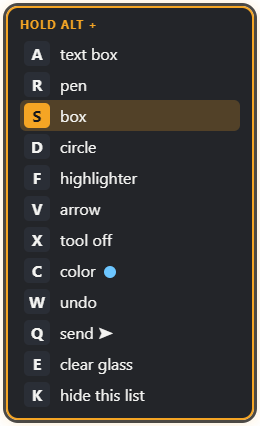
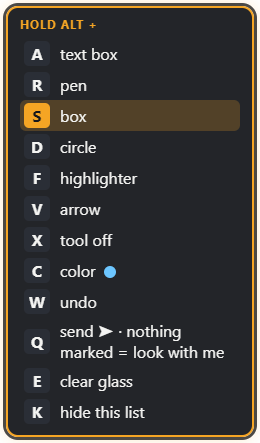
The glass v2 look: blue glass cards for the person, amber for the AI, smaller, no white; cards land close to what they're about with short lines that cross nothing; a closed window's thread leaves the glass; Alt+Q on the key list says it also means look with me; README shows the v1 and v2 pictures, 

diff --git a/glass/glass.html b/glass/glass.html
@@ -136,6 +136,62 @@
   body.mode-note, body.mode-note * { cursor: text !important; }
   body.mode-ask, body.mode-ask * { cursor: help !important; }
   body[class*="mode-"] .card, body[class*="mode-"] .card * { cursor: grab !important; }
+  /* Lens (Nov 10, his pick in the Den, #15): one material for every note. A dark glass pane with a light edge and a deep
+     shadow, so it floats off any page; faces say who's talking; my version is the one bright thing; one soft white line. */
+  .card { max-width: 340px; padding: 12px 16px 14px; font-size: 17px; line-height: 1.42; border-radius: 18px;
+          background: linear-gradient(180deg, rgba(48,56,70,.93), rgba(26,31,40,.93)); border: 1px solid rgba(255,255,255,.16);
+          box-shadow: inset 0 1px 0 rgba(255,255,255,.16), 0 0 0 1px rgba(0,0,0,.6), 0 18px 44px rgba(0,0,0,.62); }
+  /* Whose card is whose, at a glance (his catch, Nov 10: "i cannot tell the difference between my block and yours"):
+     his are cool blue glass with a blue edge, mine warm amber glass with an amber edge. */
+  .card.hunter { background: linear-gradient(180deg, rgba(34,58,86,.95), rgba(19,33,52,.95)); border-color: rgba(108,198,255,.55);
+                 box-shadow: inset 0 1px 0 rgba(160,215,255,.18), 0 0 0 1px rgba(0,0,0,.6), 0 18px 44px rgba(0,0,0,.62); }
+  .card.odie { background: linear-gradient(180deg, rgba(66,50,26,.95), rgba(37,28,15,.95)); border-color: rgba(245,165,36,.55);
+               box-shadow: inset 0 1px 0 rgba(255,210,140,.16), 0 0 0 1px rgba(0,0,0,.6), 0 18px 44px rgba(0,0,0,.62); }
+  .card.hunter .who { color: #a9dcff !important; } .card.odie .who { color: #ffcf7a !important; }  .card .who { display: flex; align-items: center; gap: 8px; margin: 0 0 6px; padding: 0; background: none !important; color: rgba(255,255,255,.7) !important;
+               font: 600 13px/22px "Segoe UI", system-ui, sans-serif; letter-spacing: 0; text-transform: none; border-radius: 0; }
+  .card .who::before { content: ""; width: 22px; height: 22px; border-radius: 50%; flex: none; background: url(odie.png) center/cover; box-shadow: 0 0 0 2px rgba(0,0,0,.5); }
+  .card.hunter .who::before { content: "H"; background: var(--his); color: #04121e; font: 700 12px/22px "Segoe UI"; text-align: center; }
+  .card .txt { color: #fff; }
+  .tn, .tn.chip { display: none !important; }
+  .card .x, .card .fold { border: 1px solid rgba(255,255,255,.25); background: rgba(30,36,46,.95); box-shadow: 0 0 0 1px rgba(0,0,0,.6), 0 4px 10px rgba(0,0,0,.5); line-height: 22px; }
+  .card.hunter .x, .card.hunter .fold { border-color: rgba(255,255,255,.25); }
+  /* One soft white line, a dot where it lands. */
+  .tie, .tie.hunter, .tie.odie { stroke: #fff; stroke-width: 2.5; opacity: .95; filter: drop-shadow(0 0 4px rgba(255,255,255,.5)) drop-shadow(0 0 1px rgba(0,0,0,1)); }
+  .dot.hunter, .dot.odie { fill: #fff; }
+  .grp.lit .tie { stroke-width: 3.5; }
+  .card .acts { display: flex; gap: 8px; margin-top: 8px; }
+  .card .acts button { height: 30px; padding: 0 14px; border-radius: 10px; border: 0; background: rgba(255,255,255,.12); color: #fff; font: 600 13px "Segoe UI"; cursor: pointer; }
+  .card .acts button:hover { background: rgba(255,255,255,.2); }
+  /* My version: a darker well with a soft amber edge (no white: bright hurts his eyes). */
+  .card.proposal { border-left-width: 1px; padding-bottom: 12px; }
+  .proposal .txt { display: block; margin-top: 2px; padding: 11px 13px; border-radius: 12px; background: rgba(0,0,0,.28); box-shadow: inset 0 0 0 1px rgba(245,165,36,.35); color: #fff; }
+  .proposal .txt ins { color: #ffc65c; background: rgba(245,165,36,.18); }
+  .proposal .txt del { color: #7d838c; }
+  .proposal .acts { gap: 8px; }
+  .proposal button { flex: 1; height: 36px; border-radius: 12px; border: 0; background: rgba(255,255,255,.14); font: 600 15px "Segoe UI"; }
+  .proposal button.keep { background: var(--odie); color: #1f1300; }
+  .proposal .hint { display: none; }
+  .proposal.keptcard { border-color: #3fb950 !important; box-shadow: inset 0 1px 0 rgba(255,255,255,.16), 0 0 0 2px #3fb950, 0 18px 44px rgba(0,0,0,.62) !important; }
+  .proposal.keptcard .who { color: #7ee2a0 !important; }
+  /* A finished thread folds to a glass chip. */
+  .card.tucked { border-radius: 16px; padding: 8px 14px 8px 8px; opacity: 1; }
+  .card.tucked .who { margin: 0; }
+  .card.tucked .more { font-size: 14px; color: #fff; max-width: 300px; margin: 2px 0 2px 30px; }
+  /* Status on his mark: a small glass pill. */
+  .badge { background: rgba(30,36,46,.94); border: 1px solid rgba(255,255,255,.22); box-shadow: 0 0 0 1px rgba(0,0,0,.55), 0 6px 14px rgba(0,0,0,.5); padding: 3px 11px 3px 4px; font-size: 13px; }
+  .badge.done { border-color: rgba(95,211,141,.7); } .badge.you { border-color: rgba(108,198,255,.7); }
+  /* Compact (his catch, Nov 10: "why does it look like we have so much less space on the screen still?"): v1's size again.
+     Smaller text and padding, the face inline and small, and Reply only while the pointer is on the card. */
+  .card { max-width: 300px; padding: 8px 12px 9px; font-size: 15px; line-height: 1.38; border-radius: 14px; }
+  .card .who { font-size: 12px; line-height: 18px; gap: 6px; margin: 0 0 3px; }
+  .card .who::before { width: 18px; height: 18px; }
+  .card.hunter .who::before { font-size: 10px; line-height: 18px; }
+  .card:not(.proposal) .acts { position: absolute; right: 8px; bottom: -14px; margin: 0; opacity: 0; transition: opacity .12s; pointer-events: none; }
+  .card:not(.proposal):hover .acts { opacity: 1; pointer-events: auto; }
+  .card:not(.proposal) .acts button { height: 26px; padding: 0 11px; font-size: 12px; background: rgba(30,36,46,.97); box-shadow: 0 0 0 1px rgba(255,255,255,.22), 0 4px 10px rgba(0,0,0,.5); }
+  .card.proposal { max-width: 380px; }
+  .proposal .txt { padding: 9px 11px; }
+  .proposal button { height: 32px; font-size: 14px; }
 </style>
 </head>
 <body>
@@ -335,6 +391,56 @@ function seen() {
   }
   return out;
 }
+// Where a new card goes (Nov 10, rebuilt after Lens): close to what it's about, first. The old way slid around hunting for
+// the emptiest spot and ignored distance, so an answer could land a screen away with its line across another card.
+// Now every spot near the anchor gets a score: how far away it is, how many of his words it covers, and whether its line
+// would cross another card or a card would sit on another line. The lowest score wins.
+function segHitsRect(a, b, r) {
+  let t0 = 0, t1 = 1; const dx = b[0] - a[0], dy = b[1] - a[1];
+  const clip = (p, q) => { if (p === 0) return q >= 0; const t = q / p; if (p < 0) { if (t > t1) return false; if (t > t0) t0 = t; } else { if (t < t0) return false; if (t < t1) t1 = t; } return true; };
+  return clip(-dx, a[0] - r.x1) && clip(dx, r.x2 - a[0]) && clip(-dy, a[1] - r.y1) && clip(dy, r.y2 - a[1]) && t0 <= t1;
+}
+function tieSegs(skipG) {
+  const out = [];
+  for (const g of groups.values()) {
+    if (g.box.classList.contains('gone')) continue;
+    for (const k of g.cards) {
+      if (!k.line.parentNode || k.line.style.display === 'none') continue;
+      const n = a => parseFloat(k.line.getAttribute(a)) || 0;
+      out.push([[n('x1') + g.dx, n('y1') + g.dy], [n('x2') + g.dx, n('y2') + g.dy], g === skipG]);
+    }
+  }
+  return out;
+}
+function bestSpot(c, w, h, A, avoid, words) {
+  const free = (x, y) => x >= 8 && y >= 8 && x + w <= scr.width - 8 && y + h <= scr.height - 8 &&
+    !avoid.some(o => x < o.x2 + 14 && x + w > o.x1 - 14 && y < o.y2 + 14 && y + h > o.y1 - 14);
+  const others = avoid.filter(o => !(o.x1 === A.x1 && o.y1 === A.y1 && o.x2 === A.x2 && o.y2 === A.y2));
+  const segs = tieSegs(c.G);
+  const area = w * h;
+  let best = null;
+  for (let y = A.y1 - h - 320; y <= A.y2 + 320; y += 14) {
+    for (let x = A.x1 - w - 380; x <= A.x2 + 380; x += 14) {
+      if (!free(x, y)) continue;
+      const gx = Math.max(0, A.x1 - (x + w), x - A.x2), gy = Math.max(0, A.y1 - (y + h), y - A.y2);
+      const gap = Math.hypot(gx, gy);
+      if (gap < 12) continue; // a little air between a card and what it points at
+      let s = gap * 2.2;
+      if (gy > 0 && gx === 0) s += 30; // beside reads better than above or below
+      let cov = 0; for (const o of words) { const ox = Math.min(x + w, o.x2) - Math.max(x, o.x1), oy = Math.min(y + h, o.y2) - Math.max(y, o.y1); if (ox > 0 && oy > 0) cov += ox * oy; }
+      s += (cov / area) * 260;
+      if (best && s >= best.s) continue;
+      // Its own line, from the anchor to the card, mustn't cross another card...
+      const r = { x1: x, y1: y, x2: x + w, y2: y + h }, cx = x + w / 2, cy = y + h / 2;
+      const p1 = [clamp(cx, A.x1, A.x2), clamp(cy, A.y1, A.y2)], p2 = [clamp(p1[0], r.x1, r.x2), clamp(p1[1], r.y1, r.y2)];
+      for (const o of others) if (segHitsRect(p1, p2, o)) s += 500;
+      // ...and the card mustn't sit on anyone else's line.
+      for (const [a, b] of segs) if (segHitsRect(a, b, r)) s += 500;
+      if (!best || s < best.s) best = { s, x, y };
+    }
+  }
+  return best ? [best.x, best.y] : null;
+}
 function placeCard(c, hint) {
   const G = c.G, el = c.el; el.style.left = '0px'; el.style.top = '0px';
   const w = el.offsetWidth, h = el.offsetHeight, gap = 26;
@@ -357,6 +463,10 @@ function placeCard(c, hint) {
     if (M) others.push(M);
     const ok = x >= 8 && x + dw <= scr.width - 8 && y + dh <= scr.height - 8 && !others.some(o => x < o.x2 + 6 && x + dw > o.x1 - 6 && y < o.y2 + 6 && y + dh > o.y1 - 6);
     if (ok) p = [x, y]; else el.style.minWidth = '';
+  }
+  if (!p && !hint) {
+    const A = c.to === 'mark' ? M : (c.to && c.to.el) ? rectOf(c.to.el.getBoundingClientRect()) : M || (prev.length ? prev[prev.length - 1] : null);
+    if (A) p = bestSpot(c, w, h, A, avoid, c.avoid || []);
   }
   if (p) ; else if (c.avoid && c.avoid.length) {
     // Words on his screen: try every spot (beside, then sliding along each side) and keep the one over the fewest words.
@@ -568,6 +678,8 @@ window.glass = {
         else if (c.kind === 'arrow') { const l = glow(document.createElementNS(NS, 'line')); l.setAttribute('class', 'stroke his'); l.setAttribute('x1', c.from[0]); l.setAttribute('y1', c.from[1]); l.setAttribute('x2', c.to[0]); l.setAttribute('y2', c.to[1]); G.g.appendChild(l);
           const ang = Math.atan2(c.to[1] - c.from[1], c.to[0] - c.from[0]), L = 20, h = glow(polyline('his', G.g)); setPts(h, [[c.to[0] - L * Math.cos(ang - .45), c.to[1] - L * Math.sin(ang - .45)], c.to, [c.to[0] - L * Math.cos(ang + .45), c.to[1] - L * Math.sin(ang + .45)]]); }
         else if (c.kind === 'step') { const d = document.createElement('div'); d.className = 'step'; d.textContent = c.n; d.style.left = (r.x1 + r.x2) / 2 + 'px'; d.style.top = (r.y1 + r.y2) / 2 + 'px'; d.style.background = hex; G.box.appendChild(d); }
+        else if (c.kind === 'pen') { for (const s of c.strokes || []) { const l = glow(polyline('his', G.g)); setPts(l, s.map(L0)); } }
+        else if (c.kind === 'hide') { const d = document.createElement('div'); d.className = 'hidebox'; Object.assign(d.style, { left: r.x1 + 'px', top: r.y1 + 'px', width: (r.x2 - r.x1) + 'px', height: (r.y2 - r.y1) + 'px' }); G.box.appendChild(d); }
         else { const el = glow(document.createElementNS(NS, 'rect')); el.setAttribute('class', 'stroke his'); el.setAttribute('rx', 6); drawRect(el, r); G.g.appendChild(el); }
         if (c.text) {
           const k = makeCard(G, 'hunter', c.text, 'mark');

diff --git a/glass/main.js b/glass/main.js
@@ -11,7 +11,7 @@ app.commandLine.appendSwitch('disable-background-timer-throttling');
 const http = require('http');
 const fs = require('fs');
 const path = require('path');
-const { spawn } = require('child_process');
+const { spawn, execFile } = require('child_process');
 
 const PORT = Number(process.env.GLASS_PORT) || 7931;
 // Two parts are wired to our own setup and stay off unless you point them somewhere (see README, "Optional parts"):
@@ -244,7 +244,7 @@ const KEYS = { 'Alt+A': 'note', 'Alt+R': 'pen', 'Alt+S': 'box', 'Alt+D': 'ellips
 // Clear is Alt+E. The key list stays up by the puck (drag it anywhere; it remembers), and Alt+K hides or
 // shows it. It lights the tool that's on and shows the pen's color, so it's also how he sees what a key just did.
 const KEY_NAMES = { note: 'text box', pen: 'pen', box: 'box', ellipse: 'circle', hl: 'highlighter', arrow: 'arrow', off: 'tool off',
-  color: 'color', undo: 'undo', send: 'send ➤', clear: 'clear glass', legend: 'hide this list' };
+  color: 'color', undo: 'undo', send: 'send ➤ · nothing marked = look with me', clear: 'clear glass', legend: 'hide this list' };
 const SWATCH = { blue: '#6cc6ff', red: '#ff5a5a', green: '#3fb950', yellow: '#ffe14d' };
 let legend = null, legendOn = true;
 function legendHtml() {
@@ -743,12 +743,38 @@ function anchor(pane, id, r, keep) {
   anchors.set(`${pane}:${id}`, { pane, id, pt, bx: [o.x + r.x1, o.x + r.x2], by: [o.y + r.y1, o.y + r.y2], hwnd: keep ? keep.hwnd : null, r0: keep ? keep.r0 : null, sy: keep && keep.sy || 0, dx: 0, dy: 0, shown: true });
   startWins(); if (winList.length) reanchor();
 }
+// A thread whose window closed used to stay hidden on the glass until a clear (still counted, still saved, never seen).
+// Now: once its window is really gone (not just minimized), the thread moves to data/scene-closed.json and leaves the glass.
+// `glass.js scene` still lists it under "kept aside".
+function checkClosed(a) {
+  a.checking = true;
+  const ps = `Add-Type -Name W -Namespace U -MemberDefinition '[DllImport("user32.dll")] public static extern bool IsWindow(System.IntPtr h);'; [U.W]::IsWindow([System.IntPtr]${a.hwnd})`;
+  execFile('powershell', ['-NoProfile', '-Command', ps], { windowsHide: true, timeout: 10000 }, async (err, out) => {
+    a.checking = false;
+    if (err || String(out).trim() !== 'False' || !anchors.has(`${a.pane}:${a.id}`)) return;
+    a.missSince = 0;
+    const p = panes[a.pane]; if (!p || p.win.isDestroyed()) return;
+    try {
+      const g = (await run(p, { op: 'scene' })).find(x => x.id === a.id);
+      if (g) { let old = []; try { old = JSON.parse(fs.readFileSync(SCENE_CLOSED, 'utf8')).items || []; } catch {}
+        const item = { ...g, pane: a.pane, screen: p.primary ? 'main' : 'second', win: { hwnd: a.hwnd, r0: a.r0, sy: a.sy || 0 }, waiting: [] };
+        fs.writeFileSync(SCENE_CLOSED, JSON.stringify({ saved: new Date().toISOString(), items: [item, ...old].slice(0, 60) }, null, 1)); }
+      await run(p, { op: 'clear', id: a.id });
+      anchors.delete(`${a.pane}:${a.id}`); tracked.delete(`${a.pane}:${a.id}`);
+      for (let k = pending.length - 1; k >= 0; k--) if (pending[k].pane === a.pane && pending[k].id === a.id) pending.splice(k, 1);
+      trail(`window closed: thread #${a.pane}:${a.id} kept aside`); log({ who: 'glass', op: 'closed', id: a.pane * 1000 + a.id }); puckSay(); stopWinsIfIdle();
+    } catch (e) { trail('closed check failed: ' + e); }
+  });
+}
 function reanchor() {
   if (snipping) return; // his snip covers the screen for a moment; nothing really moved
   for (const a of anchors.values()) {
     if (a.hwnd === null) { const w = winAt(a.pt.x, a.pt.y); a.hwnd = w ? w[0] : 0; a.r0 = w ? [w[1], w[2]] : null; }
     if (!a.hwnd) continue; // on the bare desktop: stays put
     const i = winList.findIndex(w => w[0] === a.hwnd);
+    // Missing from the list for a few seconds: minimized, or closed. If closed, the thread is put aside, not left hidden forever.
+    if (i < 0) { if (!a.missSince) { a.missSince = Date.now(); setTimeout(reanchor, 3500); } else if (Date.now() - a.missSince > 3000 && !a.checking) checkClosed(a); }
+    else a.missSince = 0;
     let dx = a.dx, dy = a.dy, shown = false;
     if (i >= 0) {
       const w = winList[i]; dx = w[1] - a.r0[0]; dy = w[2] - a.r0[1] + (a.sy || 0);

diff --git a/README.md b/README.md
@@ -14,7 +14,13 @@ Built with Claude, and it works best with Claude.
 
 **Your AI answers right where you're looking,** beside each mark, tied to it by a line. No more screenshots, no more "the third paragraph down, on the left." The mark says *where*, your words say *what*, and the AI gets both at once.
 
-![The AI's amber answer cards beside each of my notes](docs/3-odie-answers.png)
+**v1** (November 7): the first time we did this, on our letter.
+
+![v1: the AI's amber answer cards beside each of my notes](docs/3-odie-answers.png)
+
+**v2** (November 10): the same marks, the same jokes, in the new cards. Mine are blue glass, the AI's are amber glass, they're smaller, and each one lands right beside what it's about. My words when I saw it: "super clear, reduced clutter. Im happy. this is v2 design." We'll add a picture like this for every big look upgrade.
+
+![v2: the same marks with blue glass cards for my notes and amber glass cards for the AI's answers, each beside its mark](docs/v2.png)
 
 **You keep the conversation going on the spot.** Every answer has ✎ Reply. Click it, add your next thought, and the thread grows right there beside the mark you started from.
 
@@ -96,7 +102,7 @@ Hover the puck for its tools:
 
 When you finish a mark, a note box opens beside it. Type what you mean (or dictate with Win+H) and press Enter, and your words are tied to that mark. Esc skips it. Right-click turns your tool off. Any note can be grabbed and moved, and the AI's answer moves with it. Hover a card for its ✕ to remove it. When the AI marks a thread done, it folds down to a small tag after 20 seconds so it stops covering your work; click the tag to open it again. Clicks pass through the glass to whatever is underneath, except on its own notes.
 
-**Threads you can read at a glance.** Every thread wears a small number, on your mark and on every card in it, and the AI's answers stack right under the card they answer. Hover a thread and it lights up while everything else dims. ▴ on any open card folds the whole thread back to its tag, and the tag says what's inside.
+**You can tell whose card is whose at a glance.** My notes are blue glass, the AI's answers are amber glass, each with a small face. Its answers stack right under the card they answer, and every card lands close to what it's about, so lines stay short. Hover a thread and it lights up while everything else dims. ▴ on any open card folds the whole thread back to one tag, and the tag says what's inside. A note whose window you closed leaves the glass on its own.
 
 **Nothing reaches the AI until you press ➤.** You can mark five things, change your mind, undo, and send when you're ready.
 
@@ -117,7 +123,7 @@ Every tool is also a key, all under your left hand: hold **Alt** with your thumb
 | **X** | tool off (your clicks go back to your apps) |
 | **C** | color: blue → red → green → yellow |
 | **W** | undo |
-| **Q** | send ➤ |
+| **Q** | send ➤ (with nothing marked: "look at what I'm looking at") |
 | **E** | clear the glass |
 | **K** | hide or show the key list |
 
@@ -164,7 +170,7 @@ Two parts were wired to our own setup. They're off here, and the glass works wit
 
 ## Not finished
 
-The AI's notes still land close to your words sometimes, and the lines between cards are thin and hard to see. Those are next. Pen gestures (strike to cut, arrow to move) are an idea, not built. Your keys are fixed in code (`KEYS` in `glass/main.js`), not a setting. It has run on two 1920×1080 screens and on a single 1920×1080 laptop screen, both at 100%. It converts for Windows' display scaling, so 125–150% should line up the same, and CLAUDE.md has the AI check that on first start, but a scaled screen hasn't been run for real yet. The code comments say "Hunter" and "me" (Odie), because that's who it was built by and for.
+Pen gestures (strike to cut, arrow to move) are an idea, not built. Your keys are fixed in code (`KEYS` in `glass/main.js`), not a setting. It has run on two 1920×1080 screens and on a single 1920×1080 laptop screen, both at 100%. It converts for Windows' display scaling, so 125–150% should line up the same, and CLAUDE.md has the AI check that on first start, but a scaled screen hasn't been run for real yet. The code comments say "Hunter" and "me" (Odie), because that's who it was built by and for.
 
 ## Contact
 

diff --git a/docs/how-it-works.md b/docs/how-it-works.md
@@ -56,7 +56,11 @@ On day one the glass was a sheet over the screen: switch apps and your marks flo
 
 **It never forgets.** What's on the glass (strokes, cards in order, status pills, which window, what still waits for ➤, hidden areas) saves to `glass/data/scene.json` every 2 seconds when it changes, and the glass puts it all back itself when it starts, with the same numbers. Nothing saves until the put-back has run, because an early save once wrote an empty glass over the real one. Threads whose window closed (after a reboot, say) are kept in `scene-closed.json`, and `glass.js scene` lists both.
 
-**Threads at a glance.** One number per thread, the same chip on the mark and every card (#1017 shows as 17). Answers dock under the card they answer, so a thread is a stack, and stacks keep 18 px apart. Hovering lights one thread and dims the rest to 20%. ▴ folds an open thread back to one tag, and a folded tag says what's inside (their first words, the AI's last answer, how many cards).
+**The cards (v2, Nov 10, chosen from three designs side by side).** Dark glass with a light edge and a deep shadow so they float off any page. The person's cards are blue glass, the AI's amber glass, so whose is whose reads at a glance; a small face replaces the old uppercase labels. No white anywhere (bright panels hurt to look at), so the AI's version sits in a darker well with a soft amber edge. Replies to a card dock under it, so a thread is a stack. Reply shows only while the pointer is on a card. Hovering lights one thread and dims the rest; ▴ folds an open thread back to one tag that says what's inside. An earlier try put a number on every thread; it added clutter and nobody read it, so it's gone.
+
+**Where a card lands.** Every spot within a few hundred pixels of what the card is about gets a score: distance, how many of the person's words it would cover, beside over above, and a heavy cost if its line would cross another card or it would sit on someone else's line. The lowest score wins. The first version slid around looking for the emptiest spot and ignored distance, so an answer could land a screen away with its line across everything.
+
+**A window that closes.** A thread lives on its window. When the window is gone for good (not just minimized), the thread leaves the glass and is kept in `scene-closed.json`; it used to stay hidden on the glass forever.
 
 **Notes off their words.** Before placing an answer or a note, the glass reads the lines of text near the spot and lands where it covers the fewest, and never on their marks, the key list or the puck.
 
@@ -76,7 +80,7 @@ On day one the glass was a sheet over the screen: switch apps and your marks flo
 
 ## Not built yet
 
-- **Lines you can always see.** The lines between cards are thin and don't always reach what they point to. A busy session still fills the screen fast.
+- **A busy session still fills the screen.** Folding and smaller cards help; a quieter way for a long session is still open.
 - **Pen gestures the AI can read:** a strike through text to cut it, a line between two marks to say "these connect." (The arrow tool and red ink cover some of this today.)
 - **The glass on more than one OS.**
 

diff --git a/CLAUDE.md b/CLAUDE.md
@@ -71,7 +71,7 @@ Each mark has a number (#6). **Use it exactly as the send prints it:** the thous
 
 **To show them a web page,** put it up full screen yourself and mark it: `powershell -NoProfile -ExecutionPolicy Bypass -File tools/show.ps1 -Url https://... -Screen main` (or `second`). Then `read`, and `mark` the lines that matter by their words. Full screen matters: if they maximize it after you marked it, your marks no longer sit on their words. Don't paste a link and describe where to look.
 
-**Marks live on their window.** Everything on the glass (their marks, their words, your answers, your own marks) belongs to the window it was drawn on: it moves with the window, follows the page when it scrolls, hides when they switch apps or scroll it away, and comes back with it. On the bare desktop it stays put. **Every thread wears a number** (a small chip on their mark and on each card, #1017 shows as 17), and your answers stack under the card they answer. In chat, name threads by that number. Hovering a thread lights it and dims the rest; ▴ on a card folds the whole thread back to one tag.
+**Marks live on their window.** Everything on the glass (their marks, their words, your answers, your own marks) belongs to the window it was drawn on: it moves with the window, follows the page when it scrolls, hides when they switch apps or scroll it away, and comes back with it. On the bare desktop it stays put. **Their cards are blue glass and yours are amber glass, and your answers stack under the card they answer. In chat, name a thread by what it's about. Hovering a thread lights it and dims the rest; ▴ on a card folds the whole thread back to one tag.
 
 ## How to be good at it
 

diff --git a/skill/SKILL.md b/skill/SKILL.md
@@ -31,7 +31,7 @@ They just pressed ➤ and they're looking at their mark, waiting. Speed is the w
 5. **Close each mark:** `node "{{GLASS}}" status <#> done` (it folds to a small tag after 20 s), or `status <#> you` when it's their move.
 6. **Chat gets one line,** as a receipt. The answer lives on the glass.
 
-- Each thread wears a number on their screen. In chat, name threads by it ("thread 17") so they can find it.
+- Their cards are blue glass and yours amber glass. In chat, name a thread by what it's about ("your note on the heading"), and they'll find it.
 - ➤ with nothing marked means "look at what I'm looking at": you get the window in front of them. Answer about that.
 - `REPLY on the thread at #N`: they answered one of your cards. `answer N` again.
 - Several marks in one send: one answer beside each.
